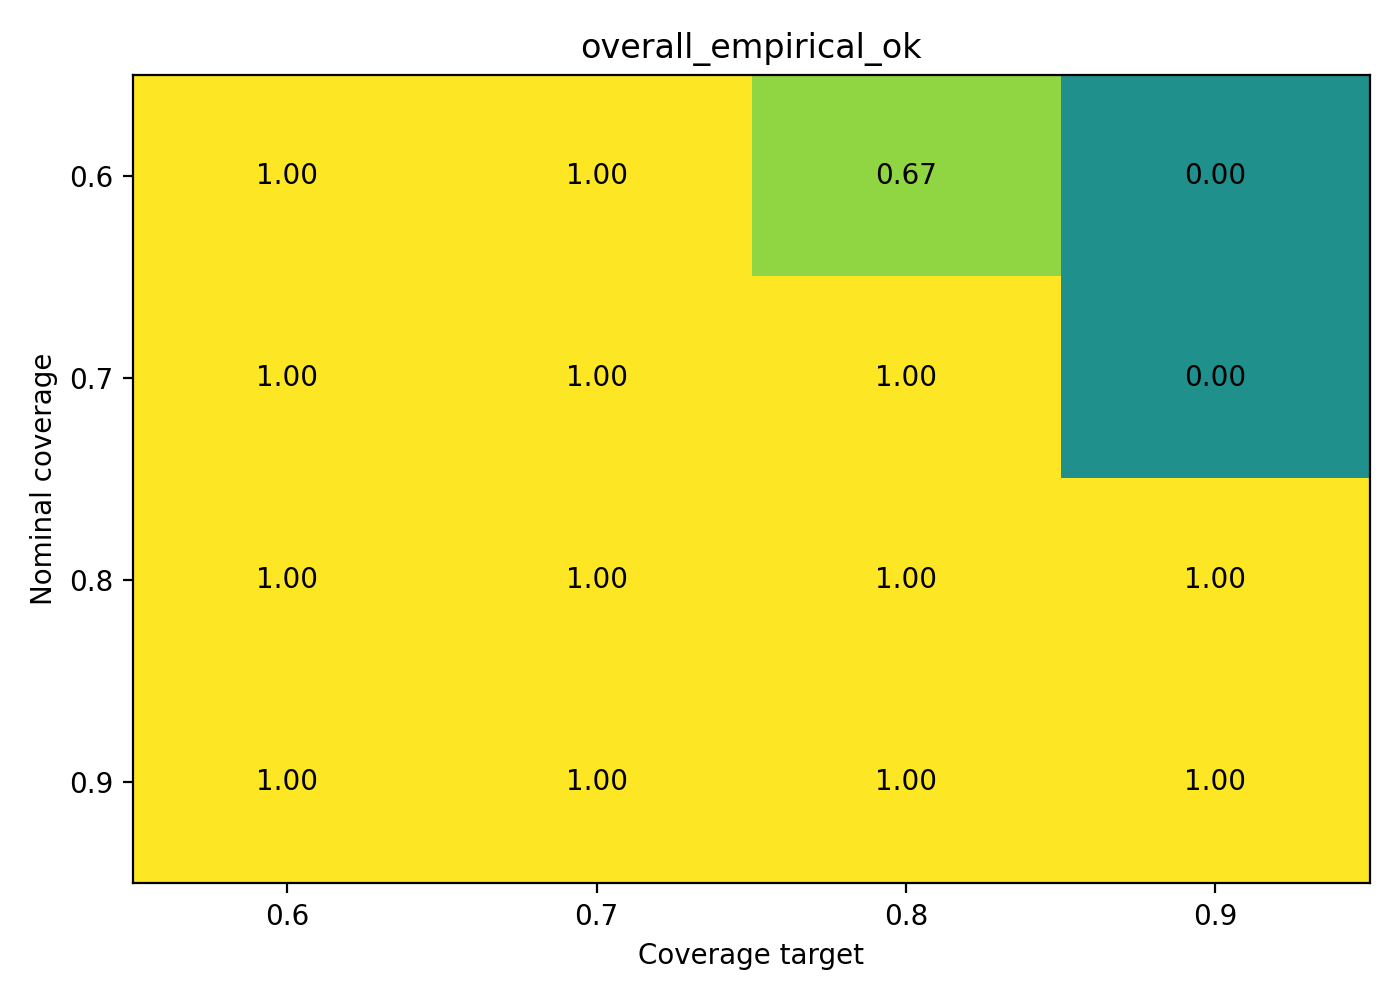
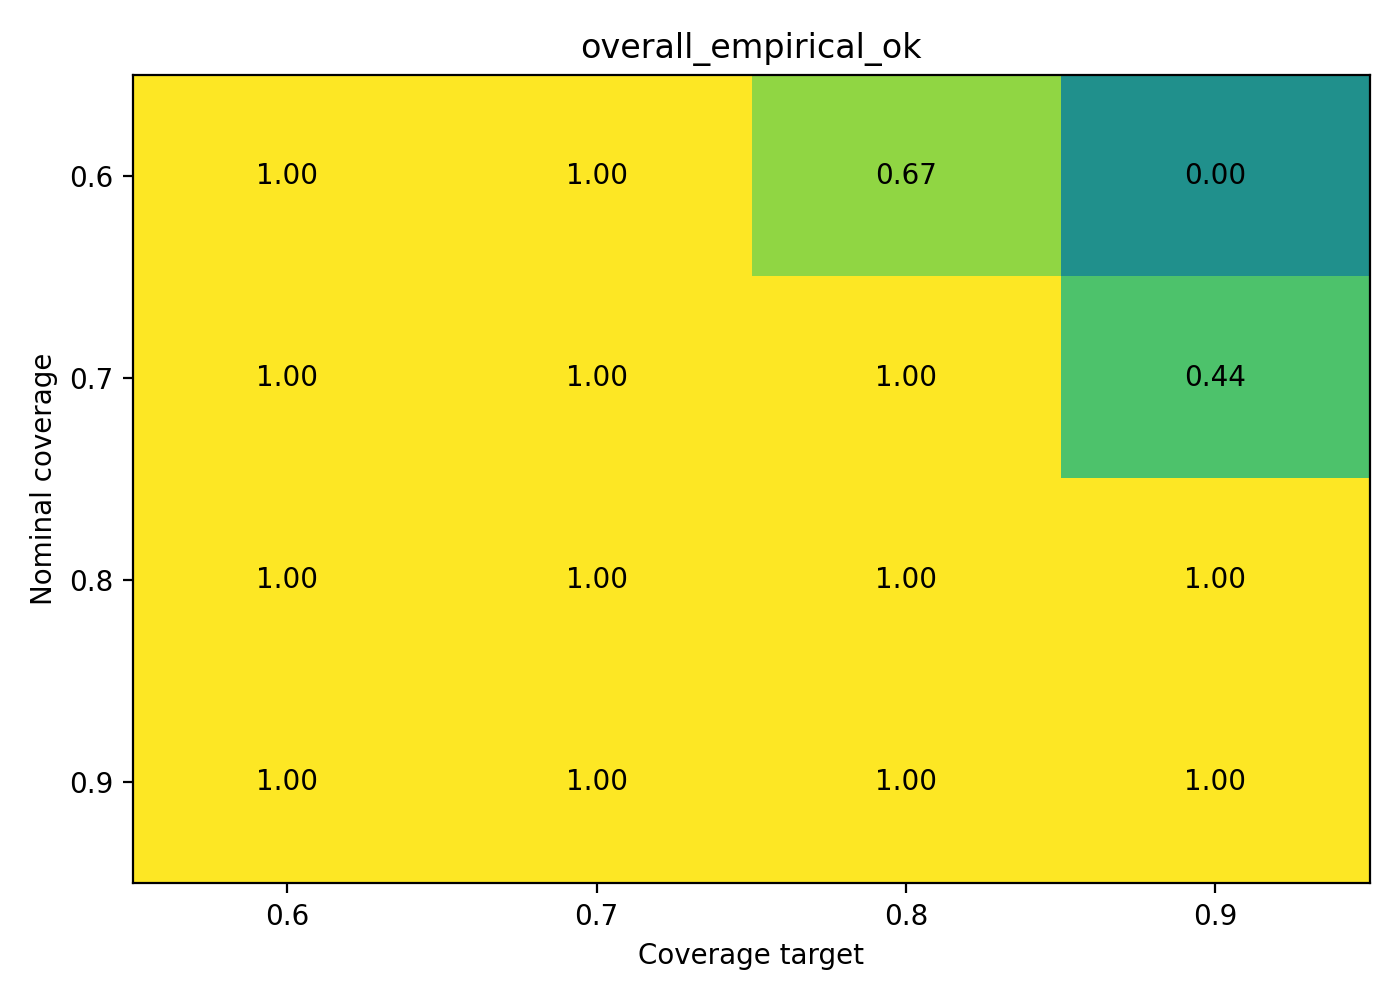
Some plots and mess to clean up

Changed region(s): [[0.7371, 0.279, 0.9829, 0.496]]

diff --git a/toy/plots.py b/toy/plots.py
@@ -215,6 +215,154 @@ def plot_contract_heatmap(
     plt.savefig(outpath, dpi=200)
     plt.close()
 
+def plot_coverage_vs_epsilon_cal(
+    df: pd.DataFrame,
+    outpath: str | Path,
+    fixed_cal_size: int | None = None,
+) -> None:
+    """
+    Line plot of avg coverage vs epsilon_cal, with one curve per train epsilon target.
+    """
+    dff = df.copy()
+    if fixed_cal_size is not None:
+        dff = dff[dff["cal_size"] == fixed_cal_size].copy()
+
+    if dff.empty:
+        raise ValueError("No rows remain after filtering for plot_set_size_vs_epsilon_cal")
+
+    plt.figure(figsize=(7, 5))
+
+    for eps_train in sorted(dff["epsilon_train_target"].unique()):
+        g = dff[dff["epsilon_train_target"] == eps_train].sort_values("epsilon_cal")
+        plt.plot(
+            g["epsilon_cal"],
+            g["dp_coverage_dpcal"],
+            marker="o",
+            label=f"train eps={eps_train}",
+        )
+
+    plt.xlabel(r"$\epsilon_{\mathrm{cal}}$")
+    plt.ylabel("Average prediction set size")
+    plt.title("Set size vs calibration privacy")
+    plt.legend()
+    plt.tight_layout()
+    plt.savefig(outpath, dpi=200)
+    plt.close()
+
+
+def plot_set_size_vs_epsilon_cal_by_nominal(
+    df: pd.DataFrame,
+    outpath: str | Path,
+    fixed_cal_size: int | None = None,
+    fixed_epsilon_train_target: float | None = None,
+    fixed_coverage_target: float | None = None,
+    aggregate: str = "mean",
+) -> None:
+    """
+    Line plot of avg set size vs epsilon_cal, with one curve per nominal coverage.
+    If multiple rows remain per epsilon_cal (e.g. multiple seeds), aggregate them.
+    """
+    dff = df.copy()
+
+    if fixed_cal_size is not None:
+        dff = dff[dff["cal_size"] == fixed_cal_size].copy()
+
+    if fixed_epsilon_train_target is not None:
+        dff = dff[np.isclose(dff["epsilon_train_target"], fixed_epsilon_train_target)].copy()
+
+    if fixed_coverage_target is not None:
+        dff = dff[np.isclose(dff["coverage_target"], fixed_coverage_target)].copy()
+
+    if dff.empty:
+        raise ValueError("No rows remain after filtering for plot_set_size_vs_epsilon_cal_by_nominal")
+
+    plt.figure(figsize=(7, 5))
+
+    for nomcov in sorted(dff["nominal_coverage"].unique()):
+        g = dff[np.isclose(dff["nominal_coverage"], nomcov)].copy()
+
+        grouped = g.groupby("epsilon_cal", as_index=False)["dp_avg_set_size_dpcal"]
+        if aggregate == "mean":
+            gplot = grouped.mean()
+        elif aggregate == "median":
+            gplot = grouped.median()
+        else:
+            raise ValueError("aggregate must be 'mean' or 'median'")
+
+        gplot = gplot.sort_values("epsilon_cal")
+
+        plt.plot(
+            gplot["epsilon_cal"],
+            gplot["dp_avg_set_size_dpcal"],
+            marker="o",
+            label=f"nom={nomcov}",
+        )
+
+    plt.xlabel(r"$\epsilon_{\mathrm{cal}}$")
+    plt.ylabel("Average prediction set size")
+    plt.title("Set size vs calibration privacy")
+    plt.legend(title="Nominal coverage")
+    plt.tight_layout()
+    plt.savefig(outpath, dpi=200)
+    plt.close()
+
+
+def plot_coverage_vs_epsilon_cal_by_nominal(
+    df: pd.DataFrame,
+    outpath: str | Path,
+    fixed_cal_size: int | None = None,
+    fixed_epsilon_train_target: float | None = None,
+    fixed_coverage_target: float | None = None,
+    aggregate: str = "mean",
+) -> None:
+    """
+    Line plot of empirical coverage vs epsilon_cal, with one curve per nominal coverage.
+    If multiple rows remain per epsilon_cal (e.g. multiple seeds), aggregate them.
+    """
+    dff = df.copy()
+
+    if fixed_cal_size is not None:
+        dff = dff[dff["cal_size"] == fixed_cal_size].copy()
+
+    if fixed_epsilon_train_target is not None:
+        dff = dff[np.isclose(dff["epsilon_train_target"], fixed_epsilon_train_target)].copy()
+
+    if fixed_coverage_target is not None:
+        dff = dff[np.isclose(dff["coverage_target"], fixed_coverage_target)].copy()
+
+    if dff.empty:
+        raise ValueError("No rows remain after filtering for plot_coverage_vs_epsilon_cal_by_nominal")
+
+    plt.figure(figsize=(7, 5))
+
+    for nomcov in sorted(dff["nominal_coverage"].unique()):
+        g = dff[np.isclose(dff["nominal_coverage"], nomcov)].copy()
+
+        grouped = g.groupby("epsilon_cal", as_index=False)["dp_coverage_dpcal"]
+        if aggregate == "mean":
+            gplot = grouped.mean()
+        elif aggregate == "median":
+            gplot = grouped.median()
+        else:
+            raise ValueError("aggregate must be 'mean' or 'median'")
+
+        gplot = gplot.sort_values("epsilon_cal")
+
+        plt.plot(
+            gplot["epsilon_cal"],
+            gplot["dp_coverage_dpcal"],
+            marker="o",
+            label=f"nom={nomcov}",
+        )
+
+    plt.xlabel(r"$\epsilon_{\mathrm{cal}}$")
+    plt.ylabel("Empirical coverage")
+    plt.title("Coverage vs calibration privacy")
+    plt.legend(title="Nominal coverage")
+    plt.tight_layout()
+    plt.savefig(outpath, dpi=200)
+    plt.close()
+
 def plot_set_size_vs_epsilon_cal(
     df: pd.DataFrame,
     outpath: str | Path,
@@ -396,6 +544,7 @@ def main() -> None:
                 "epsilon_train_realized",
                 "epsilon_cal",
                 "coverage_target",
+                "nominal_coverage",
                 "coverage_lower_bound_formal",
                 "dp_coverage_dpcal",
                 "dp_avg_set_size_dpcal",
@@ -406,16 +555,34 @@ def main() -> None:
 
     dff = filter_df(
         df,
-        nominal_coverage=0.90,
-        coverage_target=0.89,
-        beta=1e-3,
-        cal_size=500,
+        # nominal_coverage=0.90,
+        # coverage_target=0.89,
+        # beta=1e-3,
+        # cal_size=500,
     )
 
     # Plot figures.
     # plot_coverage_vs_formal_bound(dff, f"{analysis_out_dir}/coverage_vs_formal_bound.png")
     # plot_set_size_vs_epsilon_cal(dff, f"{analysis_out_dir}/set_size_vs_epsilon_cal.png")
+    # plot_coverage_vs_epsilon_cal(dff, f"{analysis_out_dir}/coverage_vs_epsilon_cal.png")
     # plot_accuracy_vs_epsilon_train(dff, f"{analysis_out_dir}/accuracy_vs_epsilon_train.png")
+
+    # Other versions gosh what a mess.
+    plot_set_size_vs_epsilon_cal_by_nominal(
+        df,
+        "analysis/set_size_vs_epsilon_cal_by_nominal.png",
+        fixed_cal_size=2000,
+        fixed_epsilon_train_target=4.0,
+        fixed_coverage_target=0.8,
+    )
+
+    plot_coverage_vs_epsilon_cal_by_nominal(
+        df,
+        "analysis/coverage_vs_epsilon_cal_by_nominal.png",
+        fixed_cal_size=2000,
+        fixed_epsilon_train_target=4.0,
+        # fixed_coverage_target=0.7,
+    )
 
     # Should have sharp boundaries.
     cal_size = None
